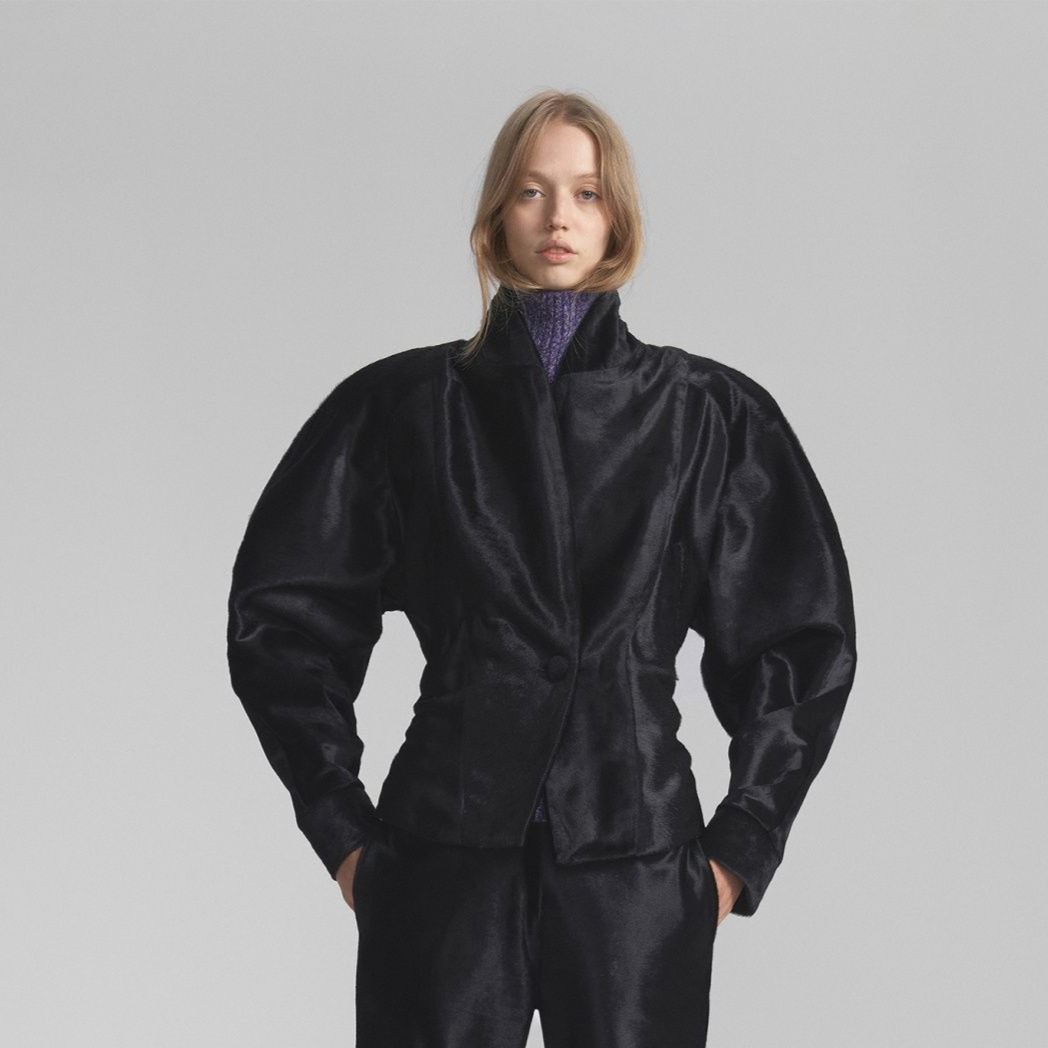
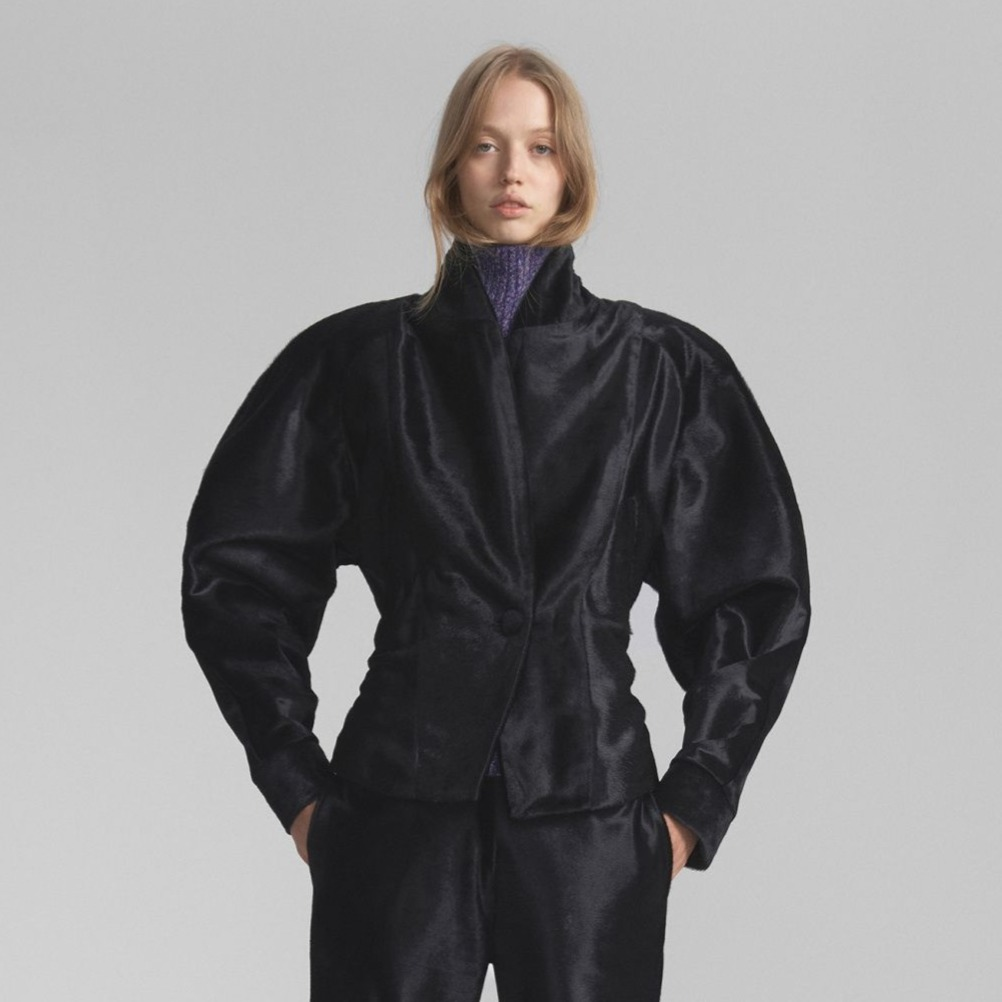
Исправление обрезки изображений, добавление функций группировки, обновление README

diff --git a/lib/shipments.ts b/lib/shipments.ts
@@ -2,11 +2,35 @@ import shipmentsData from "@/data/shipments.json";
 import type { Product } from "@/types/product";
 import { toBatch } from "./adapters";
 import type { Batch } from "@/types/domain";
-import type { ShipmentConfig } from "@/types/shipment";
 
-// Реэкспорт типов для обратной совместимости
-export type { ShipmentStatusKey, ShipmentRawItem, ShipmentConfig } from "@/types/shipment";
-export { ShipmentStatus } from "@/types/shipment";
+// Типы, используемые в JSON (сырые данные)
+export type ShipmentStatusKey = "in_progress" | "ready" | "received" | "received_unpaid" | "inTransit";
+
+type SizeConfig = Record<string, number>;
+
+export interface ShipmentRawItem {
+  productId: string;
+  overrideName?: string;
+  sizes?: SizeConfig;
+  quantityOverride?: number;
+  status?: ShipmentStatusKey;
+  sample?: boolean;
+  note?: string;
+  paidPreviously?: boolean;
+  noPayment?: boolean;
+  inTransit?: boolean;
+  showStatusTag?: boolean;
+}
+
+export interface ShipmentConfig {
+  id: string;
+  title: string;
+  status: { label: string; icon: string };
+  eta?: string;
+  receivedDate?: string;
+  groupByPayment?: boolean;
+  rawItems: readonly ShipmentRawItem[];
+}
 
 export interface ShipmentWithItems extends ShipmentConfig {
   totalAmount: number;
@@ -16,51 +40,6 @@ export interface ShipmentWithItems extends ShipmentConfig {
 
 export const SHIPMENTS_CONFIG: readonly ShipmentConfig[] =
   shipmentsData as readonly ShipmentConfig[];
-
-/**
- * Определяет год поставки из конфигурации
- * Приоритет: явно указанный year > год из receivedDate > текущий год
- */
-export function getShipmentYear(shipment: ShipmentConfig): number {
-  // Если год явно указан, используем его
-  if (shipment.year != null) {
-    return shipment.year;
-  }
-
-  // Пытаемся извлечь год из receivedDate (формат: "DD.MM.YYYY")
-  if (shipment.receivedDate) {
-    const dateMatch = shipment.receivedDate.match(/(\d{4})$/);
-    if (dateMatch) {
-      return parseInt(dateMatch[1], 10);
-    }
-  }
-
-  // По умолчанию - текущий год
-  return new Date().getFullYear();
-}
-
-/**
- * Группирует поставки по годам
- * Возвращает Map, где ключ - год, значение - массив поставок этого года
- * Годы отсортированы по убыванию (новые сверху)
- */
-export function groupShipmentsByYear(
-  shipments: ShipmentWithItems[]
-): Map<number, ShipmentWithItems[]> {
-  const grouped = new Map<number, ShipmentWithItems[]>();
-
-  for (const shipment of shipments) {
-    const year = getShipmentYear(shipment);
-    if (!grouped.has(year)) {
-      grouped.set(year, []);
-    }
-    grouped.get(year)!.push(shipment);
-  }
-
-  // Сортируем годы по убыванию и создаем отсортированный Map
-  const sortedYears = Array.from(grouped.keys()).sort((a, b) => b - a);
-  return new Map(sortedYears.map(year => [year, grouped.get(year)!]));
-}
 
 export const buildShipments = (
   products: readonly Product[],
@@ -83,3 +62,50 @@ export const buildShipments = (
       batch,
     };
   });
+
+/**
+ * Определяет год поставки на основе приоритета:
+ * 1. Явное поле year (если указано)
+ * 2. Год из receivedDate (если есть)
+ * 3. Текущий год (по умолчанию)
+ */
+export function getShipmentYear(shipment: ShipmentConfig): number {
+  // Проверяем явное поле year (может быть в расширенном интерфейсе)
+  const shipmentWithYear = shipment as ShipmentConfig & { year?: number };
+  if (shipmentWithYear.year != null) {
+    return shipmentWithYear.year;
+  }
+  
+  // Пытаемся извлечь год из receivedDate
+  if (shipment.receivedDate) {
+    const dateMatch = shipment.receivedDate.match(/(\d{4})$/);
+    if (dateMatch) {
+      return parseInt(dateMatch[1], 10);
+    }
+  }
+  
+  // По умолчанию - текущий год
+  return new Date().getFullYear();
+}
+
+/**
+ * Группирует поставки по годам и возвращает отсортированную Map.
+ * Годы отсортированы по убыванию (новые сверху).
+ */
+export function groupShipmentsByYear(
+  shipments: ShipmentWithItems[]
+): Map<number, ShipmentWithItems[]> {
+  const grouped = new Map<number, ShipmentWithItems[]>();
+  
+  for (const shipment of shipments) {
+    const year = getShipmentYear(shipment);
+    if (!grouped.has(year)) {
+      grouped.set(year, []);
+    }
+    grouped.get(year)!.push(shipment);
+  }
+  
+  // Сортируем годы по убыванию (новые сверху)
+  const sortedEntries = Array.from(grouped.entries()).sort((a, b) => b[0] - a[0]);
+  return new Map(sortedEntries);
+}

diff --git a/components/ProductCard.tsx b/components/ProductCard.tsx
@@ -59,7 +59,7 @@ export const ProductCard = ({ product }: ProductCardProps) => {
         <div
           style={{
             width: "100%",
-            height: 300,
+            height: 340,
             background: COLORS.background.cardExpanded,
             display: "flex",
             alignItems: "center",
@@ -80,6 +80,7 @@ export const ProductCard = ({ product }: ProductCardProps) => {
               sizes="(max-width: 768px) 100vw, (max-width: 1200px) 50vw, 33vw"
               style={{
                 objectFit: "cover",
+                objectPosition: "top center",
               }}
               loading="lazy"
               placeholder="blur"

diff --git a/app/home/Menu.tsx b/app/home/Menu.tsx
@@ -61,6 +61,7 @@ export const Menu = ({ items }: MenuProps) => {
                   sizes="(max-width: 768px) 100vw, 33vw"
                   style={{
                     objectFit: "cover",
+                    objectPosition: "top center",
                     ...MENU_STYLES.image,
                   }}
                   loading="lazy"

diff --git a/components/ProductDetail.tsx b/components/ProductDetail.tsx
@@ -93,6 +93,7 @@ export const ProductDetail = ({ product }: ProductDetailProps) => {
             sizes="(max-width: 768px) 100vw, 50vw"
             style={{
               objectFit: "cover",
+              objectPosition: "top center",
             }}
             loading="eager"
             priority

diff --git a/README.md b/README.md
@@ -547,6 +547,7 @@ public/images/products/
 3. **Next.js Image** использует WebP версию с `unoptimized={true}` (готовые файлы, без повторной оптимизации)
 4. **Blur placeholder** показывается во время загрузки для улучшения воспринимаемой скорости
 5. **Fallback на JPG** — если WebP не найден, автоматически переключается на JPG версию (отказоустойчивость)
+6. **Выравнивание по верхнему краю** — изображения выравниваются по верхнему краю (`objectPosition: "top center"`), обрезка происходит только снизу, верхняя часть всегда видна полностью
 
 ### Преимущества
 
@@ -576,6 +577,20 @@ public/images/products/
 Это гарантирует, что пользователь всегда увидит изображение, даже если WebP версия ещё не создана.
 
 **Safety Net:** Если скрипт конвертации `convert_to_webp.py` не был запущен, приложение не сломается. Компонент `<Image />` автоматически переключится на исходный JPG файл через обработчик `onError`. Это гарантирует, что пользователь всегда увидит изображение, даже если WebP версия ещё не создана.
+
+### Выравнивание и обрезка изображений
+
+**Принцип работы:**
+- Изображения выравниваются по **верхнему краю** (`objectPosition: "top center"`)
+- Обрезка происходит **только снизу**, верхняя часть всегда видна полностью
+- Если нужно убрать 20px, они уберутся снизу, а не по 10px сверху и снизу
+
+**Размеры контейнеров:**
+- **Каталог (ProductCard):** высота контейнера 340px
+- **Детальный просмотр (ProductDetail):** адаптивная высота (300px на мобильных, минимум 400px на десктопе)
+- **Меню (Menu):** высота определяется стилями меню
+
+Это обеспечивает, что важная верхняя часть изображения (например, воротник, капюшон) всегда видна пользователю.
 
 ---
 
